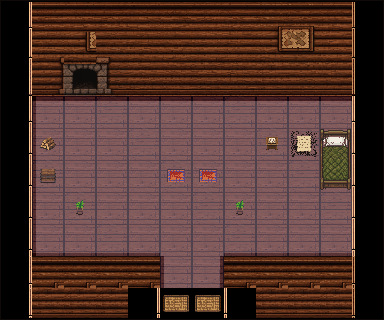
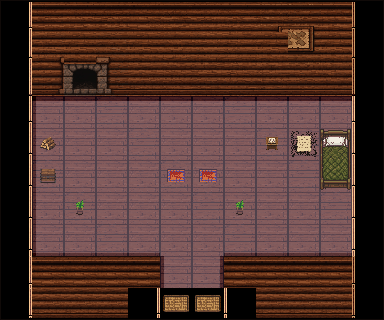
Cabin walls: remove half-map over chimney
Pick plain mid fill ≥2 cols from the map so a sliced frame cannot bleed
onto the fire column; scrub map-adjacent mid cells the same way.

diff --git a/tools/interiors/assemble_cabin_gen.py b/tools/interiors/assemble_cabin_gen.py
@@ -363,8 +363,15 @@ def slice_walls_from_strips(face_src: Path, side_src: Path) -> dict[int, Image.I
         right_inner or [c for c in inner if abs(c - fire_c) > 1],
         key=lambda c: _cell_inset_frame_score(probe[1][c]),
     )
+    # Stay ≥2 cols from map/fire so a sliced inset cannot leak a "half map"
+    # onto the chimney mid band when we clear the fire column to plain.
+    plain_candidates = [
+        c
+        for c in inner
+        if c not in (fire_c, map_c) and abs(c - map_c) > 1 and abs(c - fire_c) > 1
+    ] or [c for c in inner if c not in (fire_c, map_c)]
     plain = min(
-        (c for c in inner if c not in (fire_c, map_c)),
+        plain_candidates,
         key=lambda c: _cell_dark_hole_score(probe[1][c]) + _cell_inset_frame_score(probe[1][c]),
     )
     face = _lower_hearth_column(face, fire_c, plain)
@@ -386,6 +393,10 @@ def slice_walls_from_strips(face_src: Path, side_src: Path) -> dict[int, Image.I
     else:
         out[W_FIRE] = cells[1][fire_c]
     out[STRIP_MID0 + fire_c] = cells[1][plain]
+    # Also scrub map bleed from neighboring mid cells (half-frame slices).
+    for c in (map_c - 1, map_c + 1):
+        if 0 < c < STRIP_COLS - 1 and c != fire_c:
+            out[STRIP_MID0 + c] = cells[1][plain]
     out[W_MAP] = cells[1][map_c]
     meta = {"fire_col": fire_c, "map_col": map_c, "plain_col": plain, "cols": STRIP_COLS}
     (GEN / "wall_strip_meta.json").write_text(json.dumps(meta, indent=2) + "\n")
